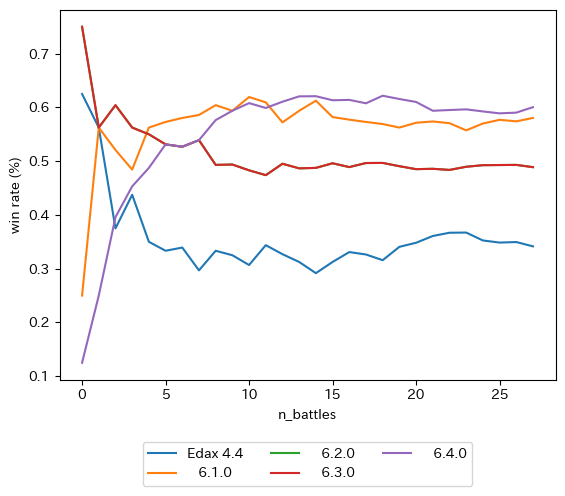
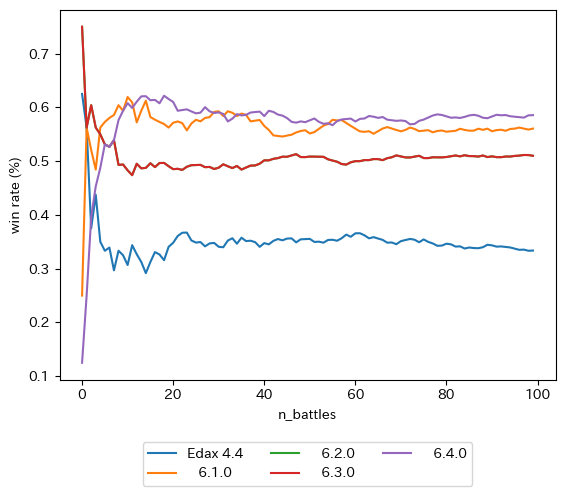
updating evaluation function

diff --git a/bin/egaroucid_vs_egaroucid.py b/bin/egaroucid_vs_egaroucid.py
@@ -4,6 +4,7 @@ import sys
 
 with open('problem/xot_small_shuffled.txt', 'r') as f:
     tactic = [elem for elem in f.read().splitlines()]
+print(len(tactic), 'openings found')
 
 #shuffle(tactic)
 
@@ -32,10 +33,10 @@ def create_res_str(arr):
     res = 'level: ' + str(level) + ' '
     res += '(0W-D-0L) 0=black: '
     res += str(arr[0][0]) + '-' + str(arr[2][0]) + '-' + str(arr[1][0])
-    res += ' ' + str((round((arr[0][0] + arr[2][0] * 0.5) / max(1, arr[0][0] + arr[1][0] + arr[2][0])) * 100, 2)) + '% '
+    res += ' ' + str(round((arr[0][0] + arr[2][0] * 0.5) / max(1, arr[0][0] + arr[1][0] + arr[2][0]) * 100, 2)) + '% '
     res += ' 0=white: '
     res += str(arr[0][1]) + '-' + str(arr[2][1]) + '-' + str(arr[1][1])
-    res += ' ' + str((round((arr[0][1] + arr[2][1] * 0.5) / max(1, arr[0][1] + arr[1][1] + arr[2][1])) * 100, 2)) + '% '
+    res += ' ' + str(round((arr[0][1] + arr[2][1] * 0.5) / max(1, arr[0][1] + arr[1][1] + arr[2][1]) * 100, 2)) + '% '
     res += ' all ' + str(round((arr[0][0] + arr[0][1]) / max(1, arr[0][0] + arr[0][1] + arr[1][0] + arr[1][1]) * 100, 2)) + '%'
     return res
 

diff --git a/src/tools/evaluation/optimizer_phase.py b/src/tools/evaluation/optimizer_phase.py
@@ -9,14 +9,14 @@ if len(sys.argv) > 3:
     beta = str(sys.argv[5])
 else:
     hour = '0'
-    minute = '5'
+    minute = '20'
     second = '0'
-    beta = '0.025'
+    beta = '0.015'
 
 if int(phase) < 10:
-    train_data_nums = [1, 2, 3, 4, 6, 7, 8, 9, 11, 15, 16, 17, 18, 99]
+    train_data_nums = [1, 2, 3, 4, 6, 7, 8, 9, 11, 15, 16, 17, 18, 19, 99]
 else:
-    train_data_nums = [3, 4, 6, 7, 8, 9, 10, 11, 15, 16, 17, 18, 99]
+    train_data_nums = [3, 4, 6, 7, 8, 9, 10, 11, 15, 16, 17, 18, 19, 99]
 
 train_data = [str(elem) + '.dat' for elem in train_data_nums]
 
@@ -25,7 +25,7 @@ train_root_dir = './../../../train_data/bin_data/20230707/'
 #train_dirs = [train_root_dir + str(4 + elem) + '/' for elem in range(int(phase) * 2, int(phase) * 2 + 2)]
 train_dirs = [train_root_dir + str(int(phase)) + '/']
 
-model_dir = './../../../model/20230827_11/'
+model_dir = './../../../model/20230910_1/'
 #model_dir = './../../../model/nomodel/'
 
 additional_params = ''

diff --git a/src/tools/evaluation/count_n_games.py b/src/tools/evaluation/count_n_games.py
@@ -1,21 +1,22 @@
 import glob
 
 dirs = [
-    'records1',
-    'records2',
-    'records3',
-    'records4',
-    'records6',
-    'records7',
-    'records8',
-    'records9',
-    'records10',
-    'records11',
-    'records15',
-    'records16',
-    'records17',
-    'records18',
-    'records99',
+    #'records1',
+    #'records2',
+    #'records3',
+    #'records4',
+    #'records6',
+    #'records7',
+    #'records8',
+    #'records9',
+    #'records10',
+    #'records11',
+    #'records15',
+    #'records16',
+    #'records17',
+    #'records18',
+    'records19',
+    #'records99',
 ]
 
 n_all_lines = 0

diff --git a/bin/autoplay.py b/bin/autoplay.py
@@ -1,8 +1,8 @@
 import subprocess
 from tqdm import trange
 
-IDX_START = 53
-IDX_END = 1000
+IDX_START = 398
+IDX_END = 399
 
 LEVEL = 11
 N_GAMES_PER_FILE = 10000
@@ -25,7 +25,7 @@ def fill0(n, r):
 cmd = 'Egaroucid_for_Console_6_4_0_x64_SIMD.exe -nobook -l ' + str(LEVEL) + ' -thread ' + str(N_THREAD_PER_EXE) + ' -selfplay ' + str(N_PLAY_PER_AI)
 print(cmd)
 
-for idx in range(IDX_START, IDX_END):
+for idx in range(IDX_START, IDX_END + 1):
     print(fill0(idx, 7))
     with open('transcript/' + fill0(idx, 7) + '.txt', 'w') as f:
         for i in trange(N_GAMES_PER_FILE):

diff --git a/src/tools/transcript_expansion/all_expand_transcript.py b/src/tools/transcript_expansion/all_expand_transcript.py
@@ -5,7 +5,7 @@ import glob
 transcript_root_dir = './../../../train_data/transcript/'
 board_root_dir = './../../../train_data/board_data/'
 #board_sub_dir_nums = [1, 2, 3, 4, 6, 7, 8, 9, 11, 15, 16, 17, 18, 99]
-board_sub_dir_nums = [18]
+board_sub_dir_nums = [19]
 out_file_name = '0.dat'
 log_file = './../../../train_data/board_data/log.txt'
 

diff --git a/src/tools/evaluation/data_translate.py b/src/tools/evaluation/data_translate.py
@@ -5,7 +5,7 @@ import glob
 bin_root_dir = './../../../train_data/bin_data/20230707/'
 input_root_dir = './../../../train_data/board_data/'
 #board_sub_dir_nums = [1, 2, 3, 4, 6, 7, 8, 9, 10, 11, 15, 16, 17, 18, 99]
-board_sub_dir_nums = [18]
+board_sub_dir_nums = [19]
 
 for phase in range(30):
     bin_dir = bin_root_dir + str(phase)

diff --git a/bin/battle.py b/bin/battle.py
@@ -180,7 +180,7 @@ for i in range(N_SET_GAMES):
     print(i)
     print_result()
     print_all_result()
-    output_plt()
+    #output_plt()
 
 print('done', N_SET_GAMES)
 print_all_result()
